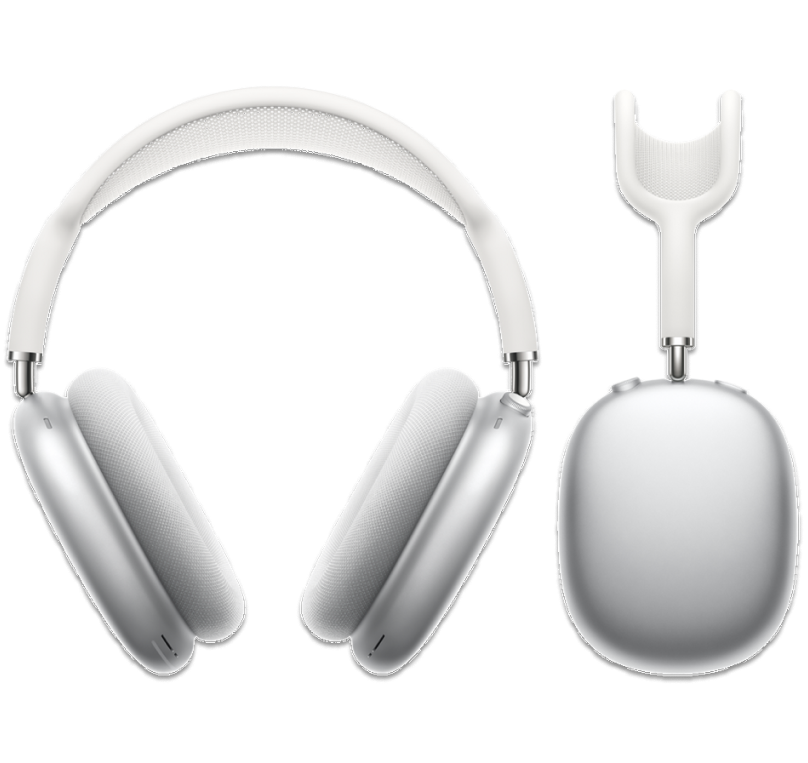
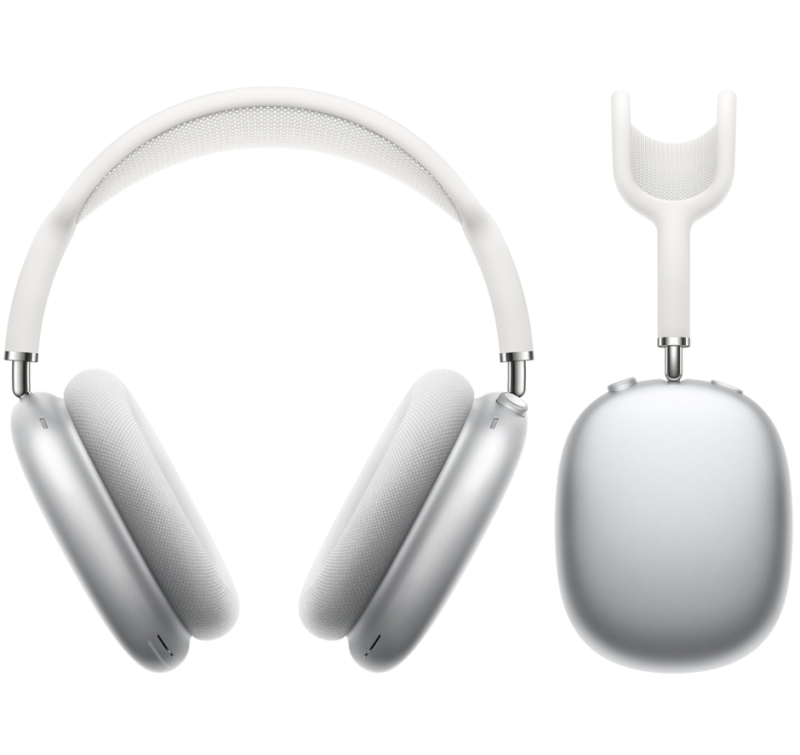
Добавил переключение цвета

diff --git a/index.html b/index.html
@@ -49,11 +49,11 @@
             class="title--m">M</span><span class="title--ax">AX</span>
         </h1>
         <div class="header__content-images">
-          <!-- <img class="header__content-image" src="./images/airpods-bluesky.png" alt="image"> -->
-          <!-- <img class="header__content-image" src="./images/airpods-gray.png" alt="image"> -->
-          <!-- <img class="header__content-image" src="./images/airpods-green.png" alt="image"> -->
-          <!-- <img class="header__content-image" src="./images/airpods-silver.png" alt="image"> -->
-          <img class="header__content-image" src="./images/airpods-pink.png" alt="image">
+          <img class="content-image item-skyblue" src="./images/airpods-bluesky.png" alt="image">
+          <img class="content-image item-gray" src="./images/airpods-gray.png" alt="image">
+          <img class="content-image item-green" src="./images/airpods-green.png" alt="image">
+          <img class="content-image item-silver" src="./images/airpods-silver.png" alt="image">
+          <img class="content-image item-pink content-image--active" src="./images/airpods-pink.png" alt="image">
         </div>
       </div>
     </div>
@@ -65,23 +65,23 @@
       <p class="choose-colour__sub-title">The perfect balance between the purityof hi‑fi and the magic of AirPods.
         The ultimate personal audio experience.
       <p>
-      <ul class="choose-colour__list">
-        <li class="choose-colour__item">
+      <div class="choose-colour__list">
+        <button class="choose-colour__item" data-button="item-green">
           <img class="choose-colour__link" src="./images/button-green.png" alt="Choose-colour-button">
-        </li>
-        <li class="choose-colour__item">
+        </button>
+        <button class="choose-colour__item" data-button="item-skyblue">
           <img class="choose-colour__link" src="./images/button-skyblue.png" alt="Choose-colour-button">
-        </li>
-        <li class="choose-colour__item">
+        </button>
+        <button class="choose-colour__item" data-button="item-silver">
           <img class="choose-colour__link" src="./images/button-silver.png" alt="Choose-colour-button">
-        </li>
-        <li class="choose-colour__item">
+        </button>
+        <button class="choose-colour__item" data-button="item-gray">
           <img class="choose-colour__link" src="./images/button-gray.png" alt="Choose-colour-button">
-        </li>
-        <!-- <li class="choose-colour__item">
+        </button>
+        <button class="choose-colour__item item--active" data-button="item-pink">
           <img class="choose-colour__link" src="./images/button-pink.png" alt="Choose-colour-button">
-        </li> -->
-      </ul>
+        </button>
+      </div>
     </div>
   </section>
   <section class="composition">
@@ -98,11 +98,11 @@
           <p>The telescoping arms expand and stay in any position you want, allowing you to maintain fit and isolation.
           </p>
         </div>
-        <img class="composition__image" src="./images/mini-pink.jpg" alt="mini">
-        <!-- <img class="composition__image" src="./images/mini-gray.jpg" alt="mini">
-        <img class="composition__image" src="./images/mini-green.jpg" alt="mini">
-        <img class="composition__image" src="./images/mini-skyblue.jpg" alt="mini">
-        <img class="composition__image" src="./images/mini-silver.jpg" alt="mini"> -->
+        <img class="content-image item-pink content-image--active" src="./images/mini-pink.jpg" alt="mini">
+        <img class="content-image item-gray" src="./images/mini-gray.jpg" alt="mini">
+        <img class="content-image item-green" src="./images/mini-green.jpg" alt="mini">
+        <img class="content-image item-skyblue" src="./images/mini-skyblue.jpg" alt="mini">
+        <img class="content-image item-silver" src="./images/mini-silver.jpg" alt="mini"> 
       </div>
     </div>
   </section>
@@ -111,11 +111,11 @@
       <h2 class="main__title">It even preserves the battery.</h2>
       <p class="battery__sub-title">When stored in the sleek and lightweight Smart Case , AirPods Max enter a low-power
         state to save energy.</p>
-      <img class="battery__image" src="./images/case-pink.png" alt="battery">
-      <!-- <img class="battery__image" src="./images/case-gray.png" alt="battery">
-      <img class="battery__image" src="./images/case-silver.png" alt="battery">
-      <img class="battery__image" src="./images/case-skyblue.png" alt="battery">
-      <img class="battery__image" src="./images/case-green.png" alt="battery"> -->
+      <img class="content-image item-pink content-image--active" src="./images/case-pink.png" alt="battery">
+      <img class="content-image item-gray" src="./images/case-gray.png" alt="battery">
+      <img class="content-image item-silver" src="./images/case-silver.png" alt="battery">
+      <img class="content-image item-skyblue" src="./images/case-skyblue.png" alt="battery">
+      <img class="content-image item-green" src="./images/case-green.png" alt="battery"> 
 
 
       <h2 class="stayin-alive__title main__title">Stayin' alive, stayin' alive.</h2>

diff --git a/css/style.css b/css/style.css
@@ -41,6 +41,14 @@ ul {
     align-items: center;
 }
 
+.content-image {
+    display: none;
+}
+
+.content-image.content-image--active {
+    display: inline-block;
+}
+
 .menu__list {
     display: flex;
     gap: 0 40px;
@@ -108,7 +116,24 @@ ul {
     left: 0;
     right: 0;
     z-index: -2;
+}
+
+.header__content-images:has(.item-pink.content-image--active)::before {
     background: linear-gradient(180deg, #F3D6D1 0%, rgba(235, 235, 235, 0) 100%);
+}
+
+.header__content-images:has(.item-skyblue.content-image--active)::before {
+    background: linear-gradient(180deg, #CADBEB 0%, rgba(235, 235, 235, 0) 100%);
+}
+
+
+
+.header__content-images:has(.item-gray.content-image--active)::before {
+    background: linear-gradient(180deg, #B6B6B6 0%, rgba(235, 235, 235, 0) 100%);
+}
+
+.header__content-images:has(.item-green.content-image--active)::before {
+    background: linear-gradient(180deg, #DDEAD9 0%, rgba(235, 235, 235, 0) 100%);
 }
 
 .choose-colour {
@@ -134,14 +159,19 @@ ul {
     margin: 0 auto;
     display: flex;
     justify-content: center;
-    gap: 0 40px;
+    gap: 20px 40px;
 }
 
 .choose-colour__item {
     padding: 50px 55px 50px;
     border: 1px solid #777;
+    background-color: transparent;
     border-radius: 20px;
     cursor: pointer;
+}
+
+.item--active {
+    display: none;
 }
 
 .composition {
@@ -294,4 +324,12 @@ ul {
 
 .copyright__link+.copyright__link {
     margin: 0 20px;
+}
+
+
+@media(max-width: 1200px) {
+    .choose-colour__list {
+        flex-wrap: wrap;
+    }
+
 }

diff --git a/js/main.js b/js/main.js
@@ -1,0 +1,24 @@
+const chooseColourItem = document.querySelectorAll('.choose-colour__item');
+const contentImage = document.querySelectorAll('.content-image');
+
+chooseColourItem.forEach(function (element) {
+    element.addEventListener('click', open)
+})
+
+function open(e) {
+    const target = e.currentTarget;
+    const button = target.dataset.button;
+    const contentActive = document.querySelectorAll(`.${button}`)
+
+    chooseColourItem.forEach(function (item) {
+        item.classList.remove('item--active');
+    })
+    target.classList.add('item--active');
+
+    contentImage.forEach(function (item) {
+        item.classList.remove('content-image--active');
+    })
+    contentActive.forEach(function (item) {
+        item.classList.add('content-image--active');
+    })
+}
